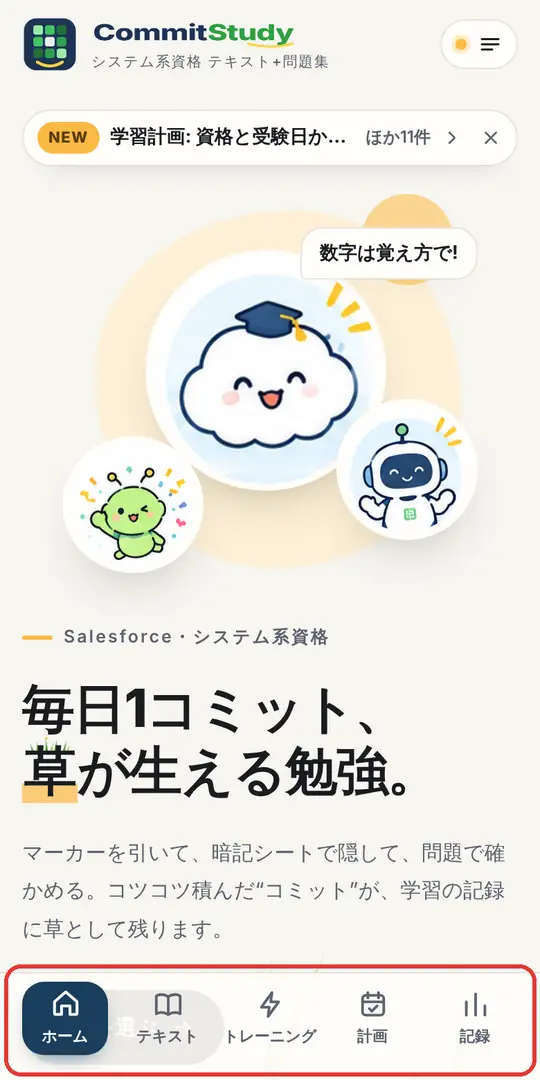
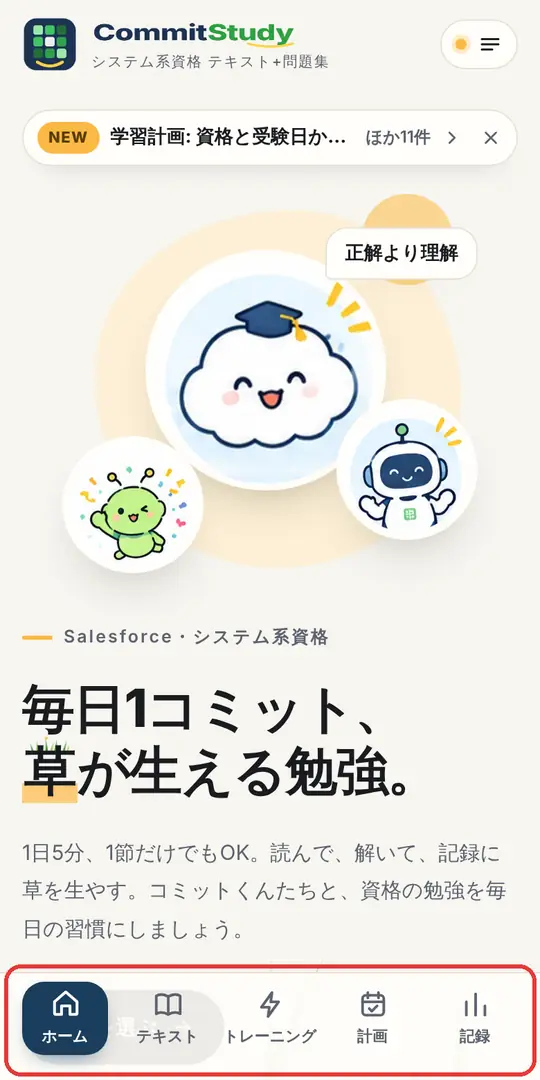
学習計画(/plan/)を追加: 資格と受験日から試験の日までの計画・今日やること・ペース・AIに相談、ホームの今日の計画、タブを5つに
- plan/patch_plan.py・plan.js・plan.css(rebuild.sh の末尾に追加)
- 保存は cs-plan-v1(fam-ls でアカウントに同期)
- 使い方(計画の節・5つの画面・画面写真の撮り直し)、仕様書、更新情報を更新

Claude-Session: https://claude.ai/code/session_01Jp4Dyyf8t6QTx62ivKWhuS

Changed region(s): [[0.0296, 0.7639, 0.9481, 0.8861], [0.563, 0.2139, 0.8593, 0.2444]]

diff --git a/commitstudy/plan/plan.css b/commitstudy/plan/plan.css
@@ -139,4 +139,4 @@
 .ai-off{font-size:13px;color:var(--sub);margin:0}
 .ai-err{color:var(--ng);font-size:13px;margin:0}
 .ai-ok{color:var(--ok);font-size:13px;margin:0}
-@media (min-width:900px){#pl-root{grid-template-columns:minmax(0,1.35fr) minmax(0,1fr);align-items:start}#pl-ask{grid-column:1/-1}#pl-main,#pl-form{grid-column:1}#pl-side{grid-column:2;grid-row:2/span 2}}
+@media (min-width:900px){#pl-root{grid-template-columns:minmax(0,1.35fr) minmax(0,1fr);align-items:start;grid-auto-flow:row dense}#pl-ask,#pl-main,#pl-form{grid-column:1}#pl-side{grid-column:2;grid-row:1/span 3}}
